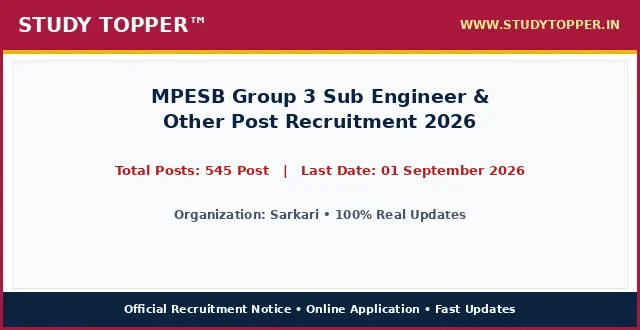
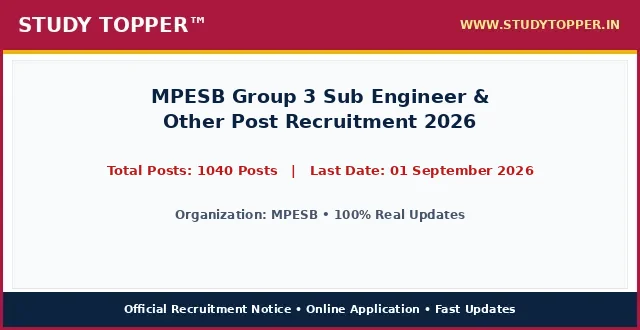
chore(lifecycle): daily auto-sort vacancies and update active dates

Changed region(s): [[0.1562, 0.4848, 0.8438, 0.5455], [0.25, 0.6364, 0.75, 0.6667]]

diff --git a/pages/mpesb-group-3-sub-engineer-2026.html b/pages/mpesb-group-3-sub-engineer-2026.html
@@ -987,12 +987,12 @@ ul.wp-block-latest-posts a:hover {
 <main class="site-main" id="main">
 <div class="gb-container gb-container-b39c368c">
 <h1 class="gb-headline gb-headline-e52a0102 gb-headline-text" style="font-size: 22px; font-weight: 700; color: #0000cd; text-align: left; margin: 8px 0 4px 0; line-height: 1.3; width: 100%; font-family: '-apple-system, BlinkMacSystemFont, 'Segoe UI', Roboto, 'Helvetica Neue', Arial, sans-serif', Times, serif, Hind, sans-serif;">MPESB Group 3 Sub Engineer & Other Post Recruitment 2026</h1>
-<div class="gb-container gb-container-659bd175"><p style="color: #cd0808; font-weight: 700; font-size: 15px; margin: 2px 0 7px 0; text-align: left; font-family: '-apple-system, BlinkMacSystemFont, 'Segoe UI', Roboto, 'Helvetica Neue', Arial, sans-serif', Times, serif, Hind, sans-serif;">Post Date: August 22, 2026 11:47 AM</p></div>
-<p class="gb-headline gb-headline-550ae316 short_Details gb-headline-text" style="width: 100%; max-width: 100%; font-size: 16.8px; line-height: 1.55; color: #000000; text-align: justify; text-justify: inter-word; margin: 8px 0 14px 0; display: block; font-family: '-apple-system, BlinkMacSystemFont, 'Segoe UI', Roboto, 'Helvetica Neue', Arial, sans-serif', Times, serif, Hind, sans-serif;"><strong style="color: #0000cd;">Sarkari</strong> has officially published the recruitment notice <strong style="color: #cd0808;">MPESB Group 3 Sub Engineer & Other Post Recruitment 2026</strong> under notification number Official Advt 2026. Online applications are invited for 545 Post across multiple departments and cadre positions. Interested candidates possessing the requisite educational qualifications and falling between 18 Years to 40 Years can complete their online registration before the application deadline of 01 September 2026. Applicants should read the eligibility criteria, category reservation rules, and exam scheme thoroughly before submitting applications.</p>
+<div class="gb-container gb-container-659bd175"><p style="color: #cd0808; font-weight: 700; font-size: 15px; margin: 2px 0 7px 0; text-align: left; font-family: '-apple-system, BlinkMacSystemFont, 'Segoe UI', Roboto, 'Helvetica Neue', Arial, sans-serif', Times, serif, Hind, sans-serif;">Post Date: August 22, 2026 12:40 PM</p></div>
+<p class="gb-headline gb-headline-550ae316 short_Details gb-headline-text" style="width: 100%; max-width: 100%; font-size: 16.8px; line-height: 1.55; color: #000000; text-align: justify; text-justify: inter-word; margin: 8px 0 14px 0; display: block; font-family: '-apple-system, BlinkMacSystemFont, 'Segoe UI', Roboto, 'Helvetica Neue', Arial, sans-serif', Times, serif, Hind, sans-serif;"><strong style="color: #0000cd;">Madhya Pradesh Employees Selection Board (MPESB)</strong> has officially published the recruitment notice <strong style="color: #cd0808;">MPESB Group 3 Sub Engineer & Other Post Recruitment 2026</strong> under notification number 2026. Online applications are invited for 1040 Posts across multiple departments and cadre positions. Interested candidates possessing the requisite educational qualifications and falling between 18 Years to 40 Years can complete their online registration before the application deadline of 01 September 2026. Applicants should read the eligibility criteria, category reservation rules, and exam scheme thoroughly before submitting applications.</p>
 <div class="gb-container gb-container-9849916c"><div class="social-buttons-compact" style="display: flex; justify-content: flex-start; align-items: center; gap: 10px; margin: 10px 0 16px 0; width: 100%;"><a class="social-btn-compact wa" href="https://whatsapp.com/channel/0029Va9xyz" rel="noopener" style="background-color: #00d084; color: #ffffff; padding: 10px 18px; border-radius: 4px; text-decoration: none; font-weight: bold; font-size: 15.5px; display: inline-flex; align-items: center; justify-content: center; height: auto;" target="_blank">WhatsApp</a><a class="social-btn-compact tg" href="https://t.me/studytopperofficial" rel="noopener" style="background-color: #0088cc; color: #ffffff; padding: 10px 18px; border-radius: 4px; text-decoration: none; font-weight: bold; font-size: 15.5px; display: inline-flex; align-items: center; justify-content: center; height: auto;" target="_blank">Telegram</a></div></div>
 <div class="gb-container gb-container-f58e6ca1" style="border: 2px solid #5b032f; border-radius: 4px; overflow: hidden; margin: 15px 0 20px 0; background-color: #ffffff; width: 100%; box-sizing: border-box;">
 <h2 class="gb-headline gb-headline-2ca5a791 gb-headline-text" style="font-size: 16px; font-weight: 700; text-align: center; color: #ef0303; line-height: 1.3; padding: 6px 4px; margin: 0; background: #ffffff; font-family: '-apple-system, BlinkMacSystemFont, 'Segoe UI', Roboto, 'Helvetica Neue', Arial, sans-serif', Times, serif, Hind, sans-serif;">MPESB Group 3 Sub Engineer & Other Post Recruitment 2026 &ndash; Latest Details &amp; Updates</h2>
-<h3 class="gb-headline gb-headline-7d5f86e8 gb-headline-text" style="font-size: 16px; font-weight: 600; text-align: center; color: #009703; line-height: 1.25; margin: 0; padding: 2px 4px 6px 4px; background: #ffffff; font-family: '-apple-system, BlinkMacSystemFont, 'Segoe UI', Roboto, 'Helvetica Neue', Arial, sans-serif', Times, serif, Hind, sans-serif;">Sarkari : Details &amp; Summary</h3>
+<h3 class="gb-headline gb-headline-7d5f86e8 gb-headline-text" style="font-size: 16px; font-weight: 600; text-align: center; color: #009703; line-height: 1.25; margin: 0; padding: 2px 4px 6px 4px; background: #ffffff; font-family: '-apple-system, BlinkMacSystemFont, 'Segoe UI', Roboto, 'Helvetica Neue', Arial, sans-serif', Times, serif, Hind, sans-serif;">Madhya Pradesh Employees Selection Board (MPESB) : Details &amp; Summary</h3>
 <p class="gb-headline gb-headline-79adf169 gb-headline-text" style="margin: 0 0 6px 0; font-family: '-apple-system, BlinkMacSystemFont, 'Segoe UI', Roboto, 'Helvetica Neue', Arial, sans-serif', Times, serif, Hind, sans-serif; text-align: center; font-size: 18px; font-weight: 700;"><a href="/" style="color: #0000ff; text-decoration: underline;">StudyTopper.in</a></p>
 
 <style id="st-post-boxes-responsive-css">
@@ -1025,7 +1025,7 @@ ul.wp-block-latest-posts a:hover {
     <div style="background-color: #5b032f; color: #ffffff; padding: 8px 10px; font-size: 20px; font-weight: 700; text-align: center; font-family: '-apple-system, BlinkMacSystemFont, 'Segoe UI', Roboto, 'Helvetica Neue', Arial, sans-serif', Times, serif, Hind, sans-serif;">Important Dates</div>
     <div style="padding: 12px 14px; background-color: #ffffff;">
       <ul style="padding-left: 20px; margin: 0; list-style-type: disc; text-align: left; font-size: 14pt; line-height: 1.6; font-family: '-apple-system, BlinkMacSystemFont, 'Segoe UI', Roboto, 'Helvetica Neue', Arial, sans-serif', Times, serif, Hind, sans-serif;">
-        
+        <li><span style="font-size: 14pt;">Application Begin : <strong>As per Official Notification</strong></span></li><li><span style="font-size: 14pt;">Last Date for Apply Online : <span style="color: #ff0000;"><strong>01 September 2026</strong></span></span></li><li><span style="font-size: 14pt;">Pay Exam Fee Last Date : <span style="color: #ff0000;"><strong>01 September 2026</strong></span></span></li><li><span style="font-size: 14pt;">Exam Date : <strong>As per Schedule</strong></span></li><li><span style="font-size: 14pt;">Admit Card Available : <strong>Before Examination</strong></span></li>
       </ul>
     </div>
   </div>
@@ -1034,7 +1034,7 @@ ul.wp-block-latest-posts a:hover {
     <div style="background-color: #5b032f; color: #ffffff; padding: 8px 10px; font-size: 20px; font-weight: 700; text-align: center; font-family: '-apple-system, BlinkMacSystemFont, 'Segoe UI', Roboto, 'Helvetica Neue', Arial, sans-serif', Times, serif, Hind, sans-serif;">Application Fee</div>
     <div style="padding: 12px 14px; background-color: #ffffff;">
       <ul style="padding-left: 20px; margin: 0; list-style-type: disc; text-align: left; font-size: 14pt; line-height: 1.6; font-family: '-apple-system, BlinkMacSystemFont, 'Segoe UI', Roboto, 'Helvetica Neue', Arial, sans-serif', Times, serif, Hind, sans-serif;">
-        <li><span style="font-size: 14pt;">Bihar Police BPSSC Sub Inspector SI Prohibition Result 2026 Advt. No. : <strong>03/2026</strong></span></li><li><span style="font-size: 14pt;">UP Scholarship Online Form 2026 : <strong>2027</strong></span></li>
+        <li><span style="font-size: 14pt;">General / OBC / EWS : <strong>Check Official Notification</strong></span></li><li><span style="font-size: 14pt;">SC / ST / PH : <strong>Check Official Notification</strong></span></li><li><span style="font-size: 14pt;">Payment Mode : <strong>Online Fee Mode via Net Banking, Debit/Credit Card or Offline Challan</strong></span></li>
       </ul>
       <div style="margin-top: 10px; font-size: 14pt; line-height: 1.5; color: #000000; border-top: 1px dashed #ccc; padding-top: 8px; font-family: '-apple-system, BlinkMacSystemFont, 'Segoe UI', Roboto, 'Helvetica Neue', Arial, sans-serif', Times, serif, Hind, sans-serif;">
         <strong>Mode of Payment / Access:</strong> Online via Net Banking, Debit Card, Credit Card, UPI or Free Candidate Portal.
@@ -1047,10 +1047,10 @@ ul.wp-block-latest-posts a:hover {
 <div class="st-grid-row" style="display: flex; flex-wrap: wrap; width: 100%; border-top: 2px solid #5b032f; margin: 0; padding: 0; box-sizing: border-box;">
   <!-- Left Col: Age Limits -->
   <div class="st-col-half st-col-border-right" style="box-sizing: border-box; vertical-align: top;">
-    <div style="background-color: #046132; color: #ffffff; padding: 8px 10px; font-size: 17px; font-weight: 700; text-align: center; font-family: '-apple-system, BlinkMacSystemFont, 'Segoe UI', Roboto, 'Helvetica Neue', Arial, sans-serif', Times, serif, Hind, sans-serif;">Sarkari : Age Limits As On 01 August 2026</div>
+    <div style="background-color: #046132; color: #ffffff; padding: 8px 10px; font-size: 17px; font-weight: 700; text-align: center; font-family: '-apple-system, BlinkMacSystemFont, 'Segoe UI', Roboto, 'Helvetica Neue', Arial, sans-serif', Times, serif, Hind, sans-serif;">Madhya Pradesh Employees Selection Board (MPESB) : Age Limits As On 01/08/2026</div>
     <div style="padding: 12px 14px; background-color: #ffffff;">
       <ul style="padding-left: 20px; margin: 0; list-style-type: disc; text-align: left; font-size: 14pt; line-height: 1.6; font-family: '-apple-system, BlinkMacSystemFont, 'Segoe UI', Roboto, 'Helvetica Neue', Arial, sans-serif', Times, serif, Hind, sans-serif;">
-        
+        <li><span style="font-size: 14pt;">Minimum Age : <strong>18 Years (As per post rules)</strong></span></li><li><span style="font-size: 14pt;">Maximum Age : <strong>40 Years (As per post rules)</strong></span></li><li><span style="font-size: 14pt;">Age Relaxation : <strong>Age Relaxation Extra as per MPESB Recruitment Rules.</strong></span></li>
       </ul>
     </div>
   </div>
@@ -1058,7 +1058,7 @@ ul.wp-block-latest-posts a:hover {
   <div class="st-col-half" style="box-sizing: border-box; vertical-align: top;">
     <div style="background-color: #f53c00; color: #ffffff; padding: 8px 10px; font-size: 20px; font-weight: 700; text-align: center; font-family: '-apple-system, BlinkMacSystemFont, 'Segoe UI', Roboto, 'Helvetica Neue', Arial, sans-serif', Times, serif, Hind, sans-serif;">Total Post</div>
     <div style="padding: 24px 10px; background-color: #ffffff; text-align: center;">
-      <span style="font-size: 28px; font-weight: 800; color: #000000; font-family: '-apple-system, BlinkMacSystemFont, 'Segoe UI', Roboto, 'Helvetica Neue', Arial, sans-serif', Times, serif, Hind, sans-serif;">545 Post</span>
+      <span style="font-size: 28px; font-weight: 800; color: #000000; font-family: '-apple-system, BlinkMacSystemFont, 'Segoe UI', Roboto, 'Helvetica Neue', Arial, sans-serif', Times, serif, Hind, sans-serif;">1040 Posts</span>
     </div>
   </div>
 </div>
@@ -1070,7 +1070,19 @@ ul.wp-block-latest-posts a:hover {
 <div class="gb-container gb-container-ec1f6e4c">
 <h2 class="gb-headline gb-headline-c7683bda gb-headline-text" style="font-size: 24px; font-weight: 800; text-align: center; color: #ef0303; line-height: 1.35; margin: 20px 0 12px 0; padding: 6px 4px; font-family: '-apple-system, BlinkMacSystemFont, 'Segoe UI', Roboto, 'Helvetica Neue', Arial, sans-serif', Times, serif, Hind, sans-serif;">MPESB Group 3 Sub Engineer & Other Post Recruitment 2026 : Key Overview &amp; Matrix</h2>
 <div class="gb-headline gb-headline-60ccea19 gb-headline-text">
-
+<table style="border-collapse: collapse; width: 100%; height: 150px;">
+<tbody>
+<tr style="height: 25px;">
+<td colspan="2" style="width: 50%; text-align: center; height: 25px;"><span style="background-color: #000080; color: #ffffff; font-size: 14pt;"><strong> Madhya Pradesh Employees Selection Board (MPESB) : Category Wise Vacancy Details </strong></span></td>
+</tr>
+<tr style="height: 25px;">
+<td style="width: 50%; height: 25px; text-align: center;"><span style="font-size: 14pt;"><strong>Category / Particulars</strong></span></td>
+<td style="width: 50%; height: 25px; text-align: center;"><span style="font-size: 14pt;"><strong>Count / Status</strong></span></td>
+</tr>
+<tr><td style="text-align: center;">Category Name</td><td style="text-align: center; font-weight: normal; color: inherit;">ST</td></tr><tr><td style="text-align: center;">No. Of Post</td><td style="text-align: center; font-weight: normal; color: inherit;">141</td></tr><tr><td style="text-align: center;">Eligibility Criteria</td><td style="text-align: center; font-weight: normal; color: inherit;">Candidates must have a Bachelor’s Degree, ITI & Dipolma in any discipline from a university recognized by the Government of India.</td></tr><tr><td style="text-align: center;">Question: What is the age limit for MPESB Group 3 Sub Engineer & Other Post Bharti 2026? Answer: The age limit for MPESB Group 3 Sub Engineer & Other Post Bharti 2026 is as follows: Minimum age required is 18 Years & The Maximum Age Is 40-45 Years Category Wise as on 01 January 2026.</td><td style="text-align: center; font-weight: normal; color: inherit;">Question: What is the official website for MPESB? Answer: The official website for MPESB is https://esb.mp.gov.in/e_default.html</td></tr>
+</tbody>
+</table>
+<p>&nbsp;</p>
 <table style="border-collapse: collapse; width: 100%;">
 <tbody>
 <tr>
@@ -1079,9 +1091,9 @@ ul.wp-block-latest-posts a:hover {
 <th style="background-color: #f53c00; color: #ffffff; padding: 6px 10px; text-align: center; border: 1px solid #d35400; font-size: 15px; font-weight: 700; font-family: '-apple-system, BlinkMacSystemFont, 'Segoe UI', Roboto, 'Helvetica Neue', Arial, sans-serif', Times, serif, Hind, sans-serif;">Eligibility Criteria</th>
 </tr>
 <tr>
-<td style="padding: 8px; border: 1px solid #ddd; font-weight: bold;">Sarkari Recruitment</td>
-<td style="padding: 8px; border: 1px solid #ddd; text-align: center; font-weight: bold;">545 Post</td>
-<td style="padding: 8px; border: 1px solid #ddd;">Please refer to the official notification linked below for detailed educational qualifications.</td>
+<td style="padding: 8px; border: 1px solid #ddd; font-weight: bold;">Group 3 Sub Engineer & Other Post</td>
+<td style="padding: 8px; border: 1px solid #ddd; text-align: center; font-weight: bold;">Candidates must have a Bachelor’s Degree, ITI & Dipolma in any discipline from a university recognized by the Government of India.</td>
+<td style="padding: 8px; border: 1px solid #ddd;"></td>
 </tr>
 </tbody>
 </table>
@@ -1093,10 +1105,10 @@ ul.wp-block-latest-posts a:hover {
 <table style="border-collapse: collapse; width: 100%;">
 <tbody>
 <tr>
-<td style="width: 100%; text-align: center;"><span style="background-color: #000080; color: #ffffff; font-size: 14pt; font-weight: bold; display: block; padding: 6px;"> How to Fill Sarkari Online Application Form </span></td>
+<td style="width: 100%; text-align: center;"><span style="background-color: #000080; color: #ffffff; font-size: 14pt; font-weight: bold; display: block; padding: 6px;"> How to Fill Madhya Pradesh Employees Selection Board (MPESB) Online Application Form </span></td>
 </tr>
 <tr>
-<td style="width: 100%;"><ol style="margin:0; padding-left:18px; text-align: left !important; list-style-position: outside !important"><li style="margin-bottom:6px; text-align: left !important;">Read the official recruitment notification carefully before applying.</li><li style="margin-bottom:6px; text-align: left !important;">Keep all basic documents ready: ID Proof, Address Details, Basic Details.</li><li style="margin-bottom:6px; text-align: left !important;">Ready your scanned documents like Photo, Signature, ID Proof, etc.</li><li style="margin-bottom:6px; text-align: left !important;">Click on the 'Apply Online' link given in the Important Links section below.</li><li style="margin-bottom:6px; text-align: left !important;">Fill out all the columns in the application form accurately.</li><li style="margin-bottom:6px; text-align: left !important;">Pay the required application fee if applicable.</li><li style="margin-bottom:6px; text-align: left !important;">Take a printout of the final submitted application form.</li><li style="margin-bottom:6px; text-align: left !important;">Resize candidate photograph and signature accurately using the <a href="https://indtool.in" rel="noopener" target="_blank"><strong>StudyTopper Tools</strong></a> image resizer at indtool.in.</li></ol></td>
+<td style="width: 100%;"><ol style="margin:0; padding-left:18px; text-align: left !important; list-style-position: outside !important"><li style="margin-bottom:6px; text-align: left !important;">Candidate must read the complete official notification issued by MPESB before applying.</li><li style="margin-bottom:6px; text-align: left !important;">Collect and verify all essential documents including Educational Proof, ID Proof, Address Details, and Basic Details.</li><li style="margin-bottom:6px; text-align: left !important;">Scan all necessary documents accurately: Passport Size Photograph, Signature, ID Proof, and Category Certificate.</li><li style="margin-bottom:6px; text-align: left !important;">Click on the 'Apply Online' link given in the Important Links section below on StudyTopper.</li><li style="margin-bottom:6px; text-align: left !important;">Fill all required personal, educational, and communication details in the application form carefully.</li><li style="margin-bottom:6px; text-align: left !important;">Review the application form preview thoroughly before final submission.</li><li style="margin-bottom:6px; text-align: left !important;">Pay the prescribed examination fee through online payment gateway if applicable.</li><li style="margin-bottom:6px; text-align: left !important;">Take a clean printout of the final submitted application form for future reference.</li><li style="margin-bottom:6px; text-align: left !important;">Resize candidate photograph and signature accurately using the <a href="https://indtool.in" rel="noopener" target="_blank"><strong>StudyTopper Tools</strong></a> image resizer at indtool.in.</li></ol></td>
 </tr>
 </tbody>
 </table>
@@ -1104,7 +1116,7 @@ ul.wp-block-latest-posts a:hover {
 <table style="border-collapse: collapse; width: 100%;">
 <tbody>
 <tr>
-<td style="width: 100%; text-align: center;"><span style="background-color: #000080; color: #ffffff; font-size: 14pt;"><strong><span style="color: #ffffff;"> Sarkari Recruitment 2026 : Mode Of Selection </span></strong></span></td>
+<td style="width: 100%; text-align: center;"><span style="background-color: #000080; color: #ffffff; font-size: 14pt;"><strong><span style="color: #ffffff;"> Madhya Pradesh Employees Selection Board (MPESB) Recruitment 2026 : Mode Of Selection </span></strong></span></td>
 </tr>
 <tr>
 <td style="width: 100%;">
@@ -1144,10 +1156,26 @@ ul.wp-block-latest-posts a:hover {
 
 <tr style="border-bottom: 1px solid #000000; background-color: #fff37a;">
 <td style="width: 50%; padding: 14px 16px; border-right: 1px solid #000000; text-align: center;">
-<span style="font-size: 19px; font-weight: 800; color: #000000; font-family: '-apple-system, BlinkMacSystemFont, 'Segoe UI', Roboto, 'Helvetica Neue', Arial, sans-serif', Times, serif, Hind, sans-serif;">Apply Online Link</span>
+<span style="font-size: 19px; font-weight: 800; color: #000000; font-family: '-apple-system, BlinkMacSystemFont, 'Segoe UI', Roboto, 'Helvetica Neue', Arial, sans-serif', Times, serif, Hind, sans-serif;">Join Our WhatsApp Channel</span>
 </td>
 <td style="width: 50%; padding: 14px 16px; text-align: center;">
-<span style="font-size: 20px; font-weight: 800; font-family: '-apple-system, BlinkMacSystemFont, 'Segoe UI', Roboto, 'Helvetica Neue', Arial, sans-serif', Times, serif, Hind, sans-serif;"><a href="https://www.sarkariresult.com/2026/mpesb-group2-subgroup-4-aug26/" aria-label="Click Here for Apply Online Link - MPESB Group 3 Sub Engineer & Other Post Recruitment 2026" rel="noopener noreferrer" style="color: #0000ef; font-weight: 800; text-decoration: none;" target="_blank">Click Here</a></span>
+<span style="font-size: 20px; font-weight: 800; font-family: '-apple-system, BlinkMacSystemFont, 'Segoe UI', Roboto, 'Helvetica Neue', Arial, sans-serif', Times, serif, Hind, sans-serif;"><a href="https://whatsapp.com/channel/0029VaAbQf01NCrYADMLt00L" aria-label="Click Here for Join Our WhatsApp Channel - MPESB Group 3 Sub Engineer & Other Post Recruitment 2026" rel="noopener noreferrer" style="color: #0000ef; font-weight: 800; text-decoration: none;" target="_blank">Click Here</a></span>
+</td>
+</tr>
+<tr style="border-bottom: 1px solid #000000; background-color: #fff37a;">
+<td style="width: 50%; padding: 14px 16px; border-right: 1px solid #000000; text-align: center;">
+<span style="font-size: 19px; font-weight: 800; color: #000000; font-family: '-apple-system, BlinkMacSystemFont, 'Segoe UI', Roboto, 'Helvetica Neue', Arial, sans-serif', Times, serif, Hind, sans-serif;">Follow Our Instagram Channel</span>
+</td>
+<td style="width: 50%; padding: 14px 16px; text-align: center;">
+<span style="font-size: 20px; font-weight: 800; font-family: '-apple-system, BlinkMacSystemFont, 'Segoe UI', Roboto, 'Helvetica Neue', Arial, sans-serif', Times, serif, Hind, sans-serif;"><a href="https://www.instagram.com/sarkariresult.com.cm_?igsh=MXF4a3Jtb3lmNmI1cw==" aria-label="Click Here for Follow Our Instagram Channel - MPESB Group 3 Sub Engineer & Other Post Recruitment 2026" rel="noopener noreferrer" style="color: #0000ef; font-weight: 800; text-decoration: none;" target="_blank">Click Here</a></span>
+</td>
+</tr>
+<tr style="border-bottom: 1px solid #000000; background-color: #fff37a;">
+<td style="width: 50%; padding: 14px 16px; border-right: 1px solid #000000; text-align: center;">
+<span style="font-size: 19px; font-weight: 800; color: #000000; font-family: '-apple-system, BlinkMacSystemFont, 'Segoe UI', Roboto, 'Helvetica Neue', Arial, sans-serif', Times, serif, Hind, sans-serif;">Apply Online</span>
+</td>
+<td style="width: 50%; padding: 14px 16px; text-align: center;">
+<span style="font-size: 20px; font-weight: 800; font-family: '-apple-system, BlinkMacSystemFont, 'Segoe UI', Roboto, 'Helvetica Neue', Arial, sans-serif', Times, serif, Hind, sans-serif;"><a href="https://esb.mponline.gov.in/Portal/Examinations/Vyapam/examsList.aspx" aria-label="Click Here for Apply Online - MPESB Group 3 Sub Engineer & Other Post Recruitment 2026" rel="noopener noreferrer" style="color: #0000ef; font-weight: 800; text-decoration: none;" target="_blank">Click Here</a></span>
 </td>
 </tr>
 <tr style="border-bottom: 1px solid #000000; background-color: #fff37a;">
@@ -1155,15 +1183,7 @@ ul.wp-block-latest-posts a:hover {
 <span style="font-size: 19px; font-weight: 800; color: #000000; font-family: '-apple-system, BlinkMacSystemFont, 'Segoe UI', Roboto, 'Helvetica Neue', Arial, sans-serif', Times, serif, Hind, sans-serif;">Check Official Notification</span>
 </td>
 <td style="width: 50%; padding: 14px 16px; text-align: center;">
-<span style="font-size: 20px; font-weight: 800; font-family: '-apple-system, BlinkMacSystemFont, 'Segoe UI', Roboto, 'Helvetica Neue', Arial, sans-serif', Times, serif, Hind, sans-serif;"><a href="" aria-label="Click Here for Check Official Notification - MPESB Group 3 Sub Engineer & Other Post Recruitment 2026" rel="noopener noreferrer" style="color: #0000ef; font-weight: 800; text-decoration: none;" target="_blank">Click Here</a></span>
-</td>
-</tr>
-<tr style="border-bottom: 1px solid #000000; background-color: #fff37a;">
-<td style="width: 50%; padding: 14px 16px; border-right: 1px solid #000000; text-align: center;">
-<span style="font-size: 19px; font-weight: 800; color: #000000; font-family: '-apple-system, BlinkMacSystemFont, 'Segoe UI', Roboto, 'Helvetica Neue', Arial, sans-serif', Times, serif, Hind, sans-serif;">Photo / Sign Resizer Tool</span>
-</td>
-<td style="width: 50%; padding: 14px 16px; text-align: center;">
-<span style="font-size: 20px; font-weight: 800; font-family: '-apple-system, BlinkMacSystemFont, 'Segoe UI', Roboto, 'Helvetica Neue', Arial, sans-serif', Times, serif, Hind, sans-serif;"><a href="https://indtool.in" aria-label="Click Here for Photo / Sign Resizer Tool - MPESB Group 3 Sub Engineer & Other Post Recruitment 2026" rel="noopener noreferrer" style="color: #0000ef; font-weight: 800; text-decoration: none;" target="_blank">Click Here</a></span>
+<span style="font-size: 20px; font-weight: 800; font-family: '-apple-system, BlinkMacSystemFont, 'Segoe UI', Roboto, 'Helvetica Neue', Arial, sans-serif', Times, serif, Hind, sans-serif;"><a href="https://esb.mp.gov.in/Rulebooks/RB_2026/Group3_SUBENG_RuleBook_2026_17_08_2026.pdf" aria-label="Click Here for Check Official Notification - MPESB Group 3 Sub Engineer & Other Post Recruitment 2026" rel="noopener noreferrer" style="color: #0000ef; font-weight: 800; text-decoration: none;" target="_blank">Click Here</a></span>
 </td>
 </tr>
 <tr style="border-bottom: 1px solid #000000; background-color: #fff37a;">
@@ -1171,15 +1191,55 @@ ul.wp-block-latest-posts a:hover {
 <span style="font-size: 19px; font-weight: 800; color: #000000; font-family: '-apple-system, BlinkMacSystemFont, 'Segoe UI', Roboto, 'Helvetica Neue', Arial, sans-serif', Times, serif, Hind, sans-serif;">Check Sarkari Result</span>
 </td>
 <td style="width: 50%; padding: 14px 16px; text-align: center;">
-<span style="font-size: 20px; font-weight: 800; font-family: '-apple-system, BlinkMacSystemFont, 'Segoe UI', Roboto, 'Helvetica Neue', Arial, sans-serif', Times, serif, Hind, sans-serif;"><a href="/" aria-label="Click Here for Check Sarkari Result - MPESB Group 3 Sub Engineer & Other Post Recruitment 2026" rel="noopener noreferrer" style="color: #0000ef; font-weight: 800; text-decoration: none;" >Click Here</a></span>
+<span style="font-size: 20px; font-weight: 800; font-family: '-apple-system, BlinkMacSystemFont, 'Segoe UI', Roboto, 'Helvetica Neue', Arial, sans-serif', Times, serif, Hind, sans-serif;"><a href="https://sarkariresult.com.cm/" aria-label="Click Here for Check Sarkari Result - MPESB Group 3 Sub Engineer & Other Post Recruitment 2026" rel="noopener noreferrer" style="color: #0000ef; font-weight: 800; text-decoration: none;" target="_blank">Click Here</a></span>
+</td>
+</tr>
+<tr style="border-bottom: 1px solid #000000; background-color: #fff37a;">
+<td style="width: 50%; padding: 14px 16px; border-right: 1px solid #000000; text-align: center;">
+<span style="font-size: 19px; font-weight: 800; color: #000000; font-family: '-apple-system, BlinkMacSystemFont, 'Segoe UI', Roboto, 'Helvetica Neue', Arial, sans-serif', Times, serif, Hind, sans-serif;">MPESB Official Website</span>
+</td>
+<td style="width: 50%; padding: 14px 16px; text-align: center;">
+<span style="font-size: 20px; font-weight: 800; font-family: '-apple-system, BlinkMacSystemFont, 'Segoe UI', Roboto, 'Helvetica Neue', Arial, sans-serif', Times, serif, Hind, sans-serif;"><a href="https://esb.mp.gov.in/e_default.html" aria-label="Click Here for MPESB Official Website - MPESB Group 3 Sub Engineer & Other Post Recruitment 2026" rel="noopener noreferrer" style="color: #0000ef; font-weight: 800; text-decoration: none;" target="_blank">Click Here</a></span>
+</td>
+</tr>
+<tr style="border-bottom: 1px solid #000000; background-color: #fff37a;">
+<td style="width: 50%; padding: 14px 16px; border-right: 1px solid #000000; text-align: center;">
+<span style="font-size: 19px; font-weight: 800; color: #000000; font-family: '-apple-system, BlinkMacSystemFont, 'Segoe UI', Roboto, 'Helvetica Neue', Arial, sans-serif', Times, serif, Hind, sans-serif;">Latest Posts Haryana HTET Score Card 2026 – Out SSC Delhi Police Constable (Executive) PE & MT Notice 2026 UPSC CDS-II Final Result With Marks 2026 IDBI JAM Final Result 2026 Railway RRB ALP Application Status 2026 – Out</span>
+</td>
+<td style="width: 50%; padding: 14px 16px; text-align: center;">
+<span style="font-size: 20px; font-weight: 800; font-family: '-apple-system, BlinkMacSystemFont, 'Segoe UI', Roboto, 'Helvetica Neue', Arial, sans-serif', Times, serif, Hind, sans-serif;"><a href="https://sarkariresult.com.cm/ssc-delhi-police-constable-executive-2026/" aria-label="Click Here for Latest Posts Haryana HTET Score Card 2026 – Out SSC Delhi Police Constable (Executive) PE & MT Notice 2026 UPSC CDS-II Final Result With Marks 2026 IDBI JAM Final Result 2026 Railway RRB ALP Application Status 2026 – Out - MPESB Group 3 Sub Engineer & Other Post Recruitment 2026" rel="noopener noreferrer" style="color: #0000ef; font-weight: 800; text-decoration: none;" target="_blank">Click Here</a></span>
+</td>
+</tr>
+<tr style="border-bottom: 1px solid #000000; background-color: #fff37a;">
+<td style="width: 50%; padding: 14px 16px; border-right: 1px solid #000000; text-align: center;">
+<span style="font-size: 19px; font-weight: 800; color: #000000; font-family: '-apple-system, BlinkMacSystemFont, 'Segoe UI', Roboto, 'Helvetica Neue', Arial, sans-serif', Times, serif, Hind, sans-serif;">Latest Posts Haryana HTET Score Card 2026 – Out SSC Delhi Police Constable (Executive) PE & MT Notice 2026 UPSC CDS-II Final Result With Marks 2026 IDBI JAM Final Result 2026 Railway RRB ALP Application Status 2026 – Out</span>
+</td>
+<td style="width: 50%; padding: 14px 16px; text-align: center;">
+<span style="font-size: 20px; font-weight: 800; font-family: '-apple-system, BlinkMacSystemFont, 'Segoe UI', Roboto, 'Helvetica Neue', Arial, sans-serif', Times, serif, Hind, sans-serif;"><a href="https://sarkariresult.com.cm/ssc-selection-phase-14-2026/" aria-label="Click Here for Latest Posts Haryana HTET Score Card 2026 – Out SSC Delhi Police Constable (Executive) PE & MT Notice 2026 UPSC CDS-II Final Result With Marks 2026 IDBI JAM Final Result 2026 Railway RRB ALP Application Status 2026 – Out - MPESB Group 3 Sub Engineer & Other Post Recruitment 2026" rel="noopener noreferrer" style="color: #0000ef; font-weight: 800; text-decoration: none;" target="_blank">Click Here</a></span>
+</td>
+</tr>
+<tr style="border-bottom: 1px solid #000000; background-color: #fff37a;">
+<td style="width: 50%; padding: 14px 16px; border-right: 1px solid #000000; text-align: center;">
+<span style="font-size: 19px; font-weight: 800; color: #000000; font-family: '-apple-system, BlinkMacSystemFont, 'Segoe UI', Roboto, 'Helvetica Neue', Arial, sans-serif', Times, serif, Hind, sans-serif;">Latest Posts Haryana HTET Score Card 2026 – Out SSC Delhi Police Constable (Executive) PE & MT Notice 2026 UPSC CDS-II Final Result With Marks 2026 IDBI JAM Final Result 2026 Railway RRB ALP Application Status 2026 – Out</span>
+</td>
+<td style="width: 50%; padding: 14px 16px; text-align: center;">
+<span style="font-size: 20px; font-weight: 800; font-family: '-apple-system, BlinkMacSystemFont, 'Segoe UI', Roboto, 'Helvetica Neue', Arial, sans-serif', Times, serif, Hind, sans-serif;"><a href="https://sarkariresult.com.cm/upsssc-stenographer-2025/" aria-label="Click Here for Latest Posts Haryana HTET Score Card 2026 – Out SSC Delhi Police Constable (Executive) PE & MT Notice 2026 UPSC CDS-II Final Result With Marks 2026 IDBI JAM Final Result 2026 Railway RRB ALP Application Status 2026 – Out - MPESB Group 3 Sub Engineer & Other Post Recruitment 2026" rel="noopener noreferrer" style="color: #0000ef; font-weight: 800; text-decoration: none;" target="_blank">Click Here</a></span>
+</td>
+</tr>
+<tr style="border-bottom: 1px solid #000000; background-color: #fff37a;">
+<td style="width: 50%; padding: 14px 16px; border-right: 1px solid #000000; text-align: center;">
+<span style="font-size: 19px; font-weight: 800; color: #000000; font-family: '-apple-system, BlinkMacSystemFont, 'Segoe UI', Roboto, 'Helvetica Neue', Arial, sans-serif', Times, serif, Hind, sans-serif;">Latest Posts Haryana HTET Score Card 2026 – Out SSC Delhi Police Constable (Executive) PE & MT Notice 2026 UPSC CDS-II Final Result With Marks 2026 IDBI JAM Final Result 2026 Railway RRB ALP Application Status 2026 – Out</span>
+</td>
+<td style="width: 50%; padding: 14px 16px; text-align: center;">
+<span style="font-size: 20px; font-weight: 800; font-family: '-apple-system, BlinkMacSystemFont, 'Segoe UI', Roboto, 'Helvetica Neue', Arial, sans-serif', Times, serif, Hind, sans-serif;"><a href="https://sarkariresult.com.cm/railway-rrb-group-d-level-1-recruitment-2026-online/" aria-label="Click Here for Latest Posts Haryana HTET Score Card 2026 – Out SSC Delhi Police Constable (Executive) PE & MT Notice 2026 UPSC CDS-II Final Result With Marks 2026 IDBI JAM Final Result 2026 Railway RRB ALP Application Status 2026 – Out - MPESB Group 3 Sub Engineer & Other Post Recruitment 2026" rel="noopener noreferrer" style="color: #0000ef; font-weight: 800; text-decoration: none;" target="_blank">Click Here</a></span>
 </td>
 </tr>
 <tr style=" background-color: #fff37a;">
 <td style="width: 50%; padding: 14px 16px; border-right: 1px solid #000000; text-align: center;">
-<span style="font-size: 19px; font-weight: 800; color: #000000; font-family: '-apple-system, BlinkMacSystemFont, 'Segoe UI', Roboto, 'Helvetica Neue', Arial, sans-serif', Times, serif, Hind, sans-serif;">Sarkari Website</span>
+<span style="font-size: 19px; font-weight: 800; color: #000000; font-family: '-apple-system, BlinkMacSystemFont, 'Segoe UI', Roboto, 'Helvetica Neue', Arial, sans-serif', Times, serif, Hind, sans-serif;">Latest Posts Haryana HTET Score Card 2026 – Out SSC Delhi Police Constable (Executive) PE & MT Notice 2026 UPSC CDS-II Final Result With Marks 2026 IDBI JAM Final Result 2026 Railway RRB ALP Application Status 2026 – Out</span>
 </td>
 <td style="width: 50%; padding: 14px 16px; text-align: center;">
-<span style="font-size: 20px; font-weight: 800; font-family: '-apple-system, BlinkMacSystemFont, 'Segoe UI', Roboto, 'Helvetica Neue', Arial, sans-serif', Times, serif, Hind, sans-serif;"><a href="" aria-label="Click Here for Sarkari Website - MPESB Group 3 Sub Engineer & Other Post Recruitment 2026" rel="noopener noreferrer" style="color: #0000ef; font-weight: 800; text-decoration: none;" target="_blank">Click Here</a></span>
+<span style="font-size: 20px; font-weight: 800; font-family: '-apple-system, BlinkMacSystemFont, 'Segoe UI', Roboto, 'Helvetica Neue', Arial, sans-serif', Times, serif, Hind, sans-serif;"><a href="https://sarkariresult.com.cm/uppsc-gic-lecturer-2025/" aria-label="Click Here for Latest Posts Haryana HTET Score Card 2026 – Out SSC Delhi Police Constable (Executive) PE & MT Notice 2026 UPSC CDS-II Final Result With Marks 2026 IDBI JAM Final Result 2026 Railway RRB ALP Application Status 2026 – Out - MPESB Group 3 Sub Engineer & Other Post Recruitment 2026" rel="noopener noreferrer" style="color: #0000ef; font-weight: 800; text-decoration: none;" target="_blank">Click Here</a></span>
 </td>
 </tr>
 </tbody>
@@ -1193,9 +1253,9 @@ ul.wp-block-latest-posts a:hover {
   <div style="font-size: 14.5px; line-height: 1.65; color: #222222;">
     <p style="margin: 0 0 4px 0;"><strong style="color: #000080;">Q1. What is the last date to apply for MPESB Group 3 Sub Engineer & Other Post Recruitment 2026?</strong></p>
 <p style="margin: 0 0 16px 0; color: #333333; line-height: 1.6;">Ans. The last date for online submission of application is 01 September 2026.</p><p style="margin: 0 0 4px 0;"><strong style="color: #000080;">Q2. What is the age limit for MPESB Group 3 Sub Engineer & Other Post Recruitment 2026?</strong></p>
-<p style="margin: 0 0 16px 0; color: #333333; line-height: 1.6;">Ans. Candidate age should generally be between 18 Years and 40 Years as on 01 August 2026. Age relaxation is applicable per rules.</p><p style="margin: 0 0 4px 0;"><strong style="color: #000080;">Q3. What is the application fee for MPESB Group 3 Sub Engineer & Other Post Recruitment 2026?</strong></p>
-<p style="margin: 0 0 16px 0; color: #333333; line-height: 1.6;">Ans. Application fee varies by category (e.g., General/OBC: Rs. 100/-, SC/ST/PwD: Exempted).</p><p style="margin: 0 0 4px 0;"><strong style="color: #000080;">Q4. How many total posts are available in MPESB Group 3 Sub Engineer & Other Post Recruitment 2026?</strong></p>
-<p style="margin: 0 0 16px 0; color: #333333; line-height: 1.6;">Ans. A total of 545 Post have been officially announced for this recruitment drive.</p><p style="margin: 0 0 4px 0;"><strong style="color: #000080;">Q5. How can I apply online for MPESB Group 3 Sub Engineer & Other Post Recruitment 2026?</strong></p>
+<p style="margin: 0 0 16px 0; color: #333333; line-height: 1.6;">Ans. Candidate age should generally be between 18 Years and 40 Years as on 01/08/2026. Age relaxation is applicable per rules.</p><p style="margin: 0 0 4px 0;"><strong style="color: #000080;">Q3. What is the application fee for MPESB Group 3 Sub Engineer & Other Post Recruitment 2026?</strong></p>
+<p style="margin: 0 0 16px 0; color: #333333; line-height: 1.6;">Ans. Application fee varies by category (e.g., General/OBC: Check Official Notification, SC/ST/PwD: Exempted).</p><p style="margin: 0 0 4px 0;"><strong style="color: #000080;">Q4. How many total posts are available in MPESB Group 3 Sub Engineer & Other Post Recruitment 2026?</strong></p>
+<p style="margin: 0 0 16px 0; color: #333333; line-height: 1.6;">Ans. A total of 1040 Posts have been officially announced for this recruitment drive.</p><p style="margin: 0 0 4px 0;"><strong style="color: #000080;">Q5. How can I apply online for MPESB Group 3 Sub Engineer & Other Post Recruitment 2026?</strong></p>
 <p style="margin: 0 0 0 0; color: #333333; line-height: 1.6;">Ans. Eligible candidates can click the 'Apply Online' link in the Important Links table, register, fill details, resize photo/signature via indtool.in, and submit before 01 September 2026.</p>
   </div>
 </div>
